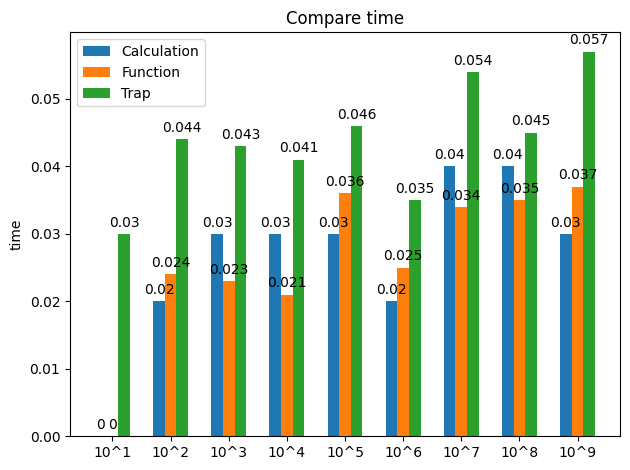
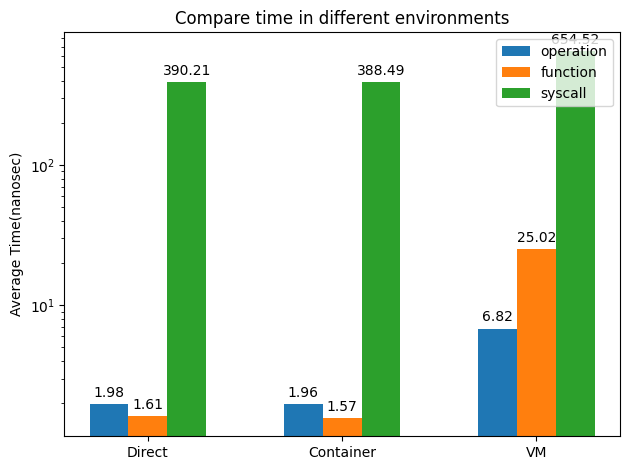
make png file

diff --git a/pythonGraph/main.py b/pythonGraph/main.py
@@ -3,25 +3,26 @@ import matplotlib.pyplot as plt
 import numpy as np
 
 
-labels = ['10^1', '10^2', '10^3', '10^4', '10^5','10^6', '10^7', '10^8', '10^9']
-Cal = [0, 0.02, 0.03, 0.03, 0.03, 0.02, 0.04, 0.04, 0.03]
-function_time = [0, 0.024, 0.023, 0.021, 0.036, 0.025, 0.034, 0.035, 0.037]
-trap_time = [0.03, 0.044, 0.043, 0.041, 0.046, 0.035, 0.054, 0.045, 0.057]
+labels = ["Direct", "Container", "VM"]
+Cal = [1.98, 1.96, 6.82]
+function_time = [1.61,  1.57, 25.02]
+trap_time = [390.21,  388.49, 654.52]
 
 x = np.arange(len(labels))  # the label locations
 width = 0.2  # the width of the bars
 
 fig, ax = plt.subplots()
-rects1 = ax.bar(x - width, Cal, width, label='Calculation')
-rects2 = ax.bar(x, function_time, width, label='Function')
-rects3 = ax.bar(x + width, trap_time, width, label='Trap')
+rects1 = ax.bar(x - width, Cal, width, label='operation')
+rects2 = ax.bar(x, function_time, width, label='function')
+rects3 = ax.bar(x + width, trap_time, width, label='syscall')
 
 
 # Add some text for labels, title and custom x-axis tick labels, etc.
-ax.set_ylabel('time')
-ax.set_title('Compare time')
+ax.set_ylabel('Average Time(nanosec)')
+ax.set_title('Compare time in different environments')
 ax.set_xticks(x)
 ax.set_xticklabels(labels)
+plt.yscale("log")
 ax.legend()
 
 ax.bar_label(rects1, padding=3)
